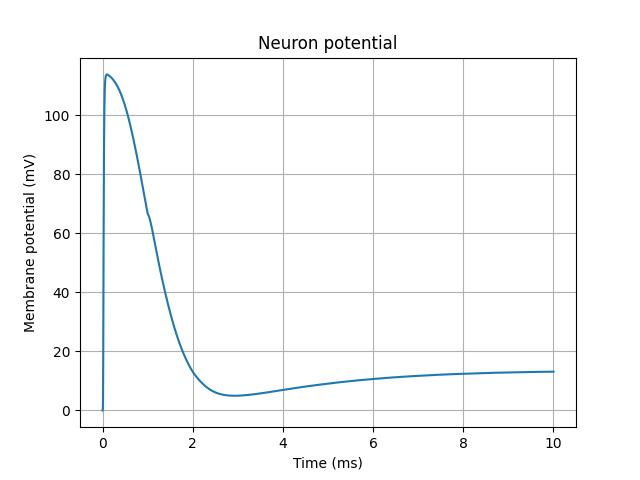
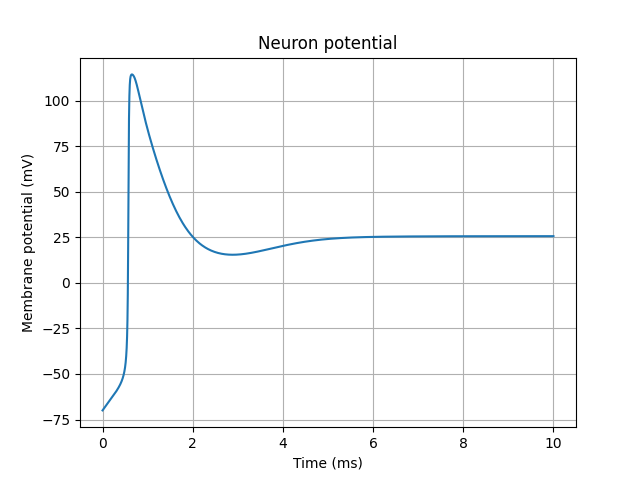
comments,optimisation

diff --git a/Full_Model.py b/Full_Model.py
@@ -6,15 +6,18 @@ from Markov_Model import *
 from HH_model import *
 import time
 
+# Na = Sodium
+# K = Potassium
+
 start_time = time.time()    # Monitor performance
-tmax = 35                   # Duration of the simulation
+tmax = 10                   # Duration of the simulation
 i_na_trace = []             # Trace for graph purposes
 i_k_trace = []
 i_leak_trace = []
 
 class Somatic_Voltage:
 
-    def __init__(self,g_na,g_k,g_l,c_m,v_init,vna,vk,vl):
+    def __init__(self,g_na,g_k,g_l,c_m,v_init,vna,vk,vl,i_inj):
 
         self.g_na     = g_na               
         self.g_k      = g_k                      
@@ -23,9 +26,10 @@ class Somatic_Voltage:
         self.v_init   = v_init
         self.vna      = vna                        
         self.vk       = vk                        
-        self.vl       = vl   
+        self.vl       = vl
+        self.i_inj    = i_inj
         
-    def derivative(self,t,v,inj,o,n):
+    def derivative(self,v,o,n):
 
         GNa = self.g_na * o    
         GK = self.g_k * n**4.0
@@ -39,19 +43,19 @@ class Somatic_Voltage:
         i_k_trace.append(i_k)
         i_leak_trace.append(i_l)
 
-        deriv = (inj - i_na - i_k - i_l) / self.c_m                          # dV/dt
+        deriv = (self.i_inj - i_na - i_k - i_l) / self.c_m                          # dV/dt
 
         return deriv
 
 
 class All_Derivatives:
 
-    def __init__(self,somatic_voltage,markov_states):
+    def __init__(self,somatic_voltage,mstates):
 
         self.hh = HodgkinHuxley() 
         self.somatic_voltage = somatic_voltage
-        self.markov = markov_states
-        
+        self.markov = mstates
+
     def __call__(self,t,y): # t and y are called by the integrator
 
         v_soma   = y[0]
@@ -59,35 +63,27 @@ class All_Derivatives:
         markov_y = y[2:15]
         markov_o = y[13]
 
-        dv = self.somatic_voltage.derivative(t,v_soma,self.hh.i_inj,markov_o,n)         # Call dV/dt and pass the parameters
+        dv = self.somatic_voltage.derivative(v_soma,markov_o,n)         # Call dV/dt and pass the parameters
         
         dn = (self.hh.alpha_n(v_soma) * (1 - n)) - (self.hh.beta_n(v_soma) * n)         # dn/dt
 
         dm = self.markov.derivatives(markov_y,self.markov.alpha(v_soma),self.markov.beta(v_soma),self.markov.ksi(v_soma))
 
-        return np.append([dv,dn],dm)
+        all_derivatives = np.append([dv,dn],dm)
+        return all_derivatives
 
 def normalize(y):
-
-    total=0
-    for i in range(2,15):
-        total+=y[i]
-
-    for i in range(2,15):
-        y[i]/=total
-
-    # norm = y[2:15]/np.sum(y[2:15])      # normalise only the markov results from y[2] to y[15] but return the whole y
-    # y[2:15] = norm
+    norm = y[2:15]/np.sum(y[2:15])      # normalise only the markov results from y[2] to y[15] but return the whole y
+    y[2:15] = norm
     return y
-
 
 mstates = Markov(γ=150., δ=40., ε=1.75, d=0.005, u=0.5, n=0.75, f=0.005, a=3.3267)  # call markovian scheme to get the markov derivatives
 hh = HodgkinHuxley() 
 
-somatic_voltage=Somatic_Voltage(g_na=120., g_k=36., g_l=0.3, c_m=1., v_init=0., vna=115., vk=-12., vl=10.613)
-# somatic_voltage=Somatic_Voltage(105.,15.,2.,1.,-70.,45.,-88.,-88)             # Parameter values from Parameters2.py
-# somatic_voltage=Somatic_Voltage(47.2,200.,2.,1.,10.,45.,-88.,-88.)             # Parameter values from research paper
-# somatic_voltage=Somatic_Voltage(36.,120.,0.3,1.,0.,-115.,12.,-10.613)         # Parameter values from 2013 Action potential modelling
+somatic_voltage=Somatic_Voltage(g_na=120., g_k=36., g_l=0.3, c_m=1., v_init=-70., vna=115., vk=-12., vl=10.613, i_inj=10.)
+# somatic_voltage=Somatic_Voltage(105.,15.,2.,1.,-70.,45.,-88.,-88,10.)              # Parameter values from Parameters2.py
+# somatic_voltage=Somatic_Voltage(47.2,200.,2.,1.,10.,45.,-88.,-88.,10.)             # Parameter values from research paper
+# somatic_voltage=Somatic_Voltage(36.,120.,0.3,1.,0.,-115.,12.,-10.613,10.)          # Parameter values from 2013 Action potential modelling
 
 v_initial = somatic_voltage.v_init
 
@@ -95,25 +91,41 @@ f = All_Derivatives(somatic_voltage,mstates)  # All derivatives in one function
 
 # Initialisation
 y = np.array([v_initial,hh.n_inf(v_initial),1,0,0,0,0,0,0,0,0,0,0,0,0],dtype='float64')
-bigv = np.array([])
-bigt = np.array([])
+bigv=bigt=bigo=bigb=bigi6=bigc5= np.array([])
+
 i=0
 status = 0
-
+step = 0.025 
 while i< tmax and status==0 :
 
-    result = solve_ivp(f, t_span=(i,i+1), y0=y, t_eval=(np.linspace(i, i+1, 1000)), method='BDF')   # t_span stops at tmax with step 1
+    result = solve_ivp(f, t_span=(i,i+step), y0=y, t_eval=(np.linspace(i, i+step, 100)), method='BDF') 
     y_norm = result.y[:,-1]
-    y = normalize(y_norm)                                   # Normalise only the markov derivatives at every step i
+    y = normalize(y_norm)                                   # Normalise only the markov derivatives at every step
 
-    # print(np.shape(result.t))
+    # print(np.shape(result.y))                               # (15,len(t_eval)) 15 derivatives and the length of t_eval if one exists
 
-    bigv = np.concatenate((bigv,result.y[0,:]))             # Concatenate all the voltage values at specific times
-    bigt = np.concatenate((bigt,result.t))             
+    bigv = np.concatenate((bigv,result.y[0]))               # result.y[0] = result.y[0,:]
+    bigt = np.concatenate((bigt,result.t))   
 
-    status = result.status                                  # -1: Integration step failed.
-    i+=1                                                    #  0: The solver successfully reached the end of t_span.
+    bigc5 = np.concatenate((bigc5,result.y[6]))    
+    bigi6 = np.concatenate((bigi6,result.y[12]))
+    bigo = np.concatenate((bigo,result.y[13]))
+    bigb = np.concatenate((bigb,result.y[14]))
 
+
+    status = result.status                                     # -1: Integration step failed.
+    i+=step                                                    #  0: The solver successfully reached the end of t_span.
+
+# ax = plt.subplot()
+# ax.plot(bigt, bigo,c='r',label='o')
+# ax.plot(bigt, bigb,c='b',label='b')
+# ax.plot(bigt, bigi6,c='orange',label='i6')
+# ax.plot(bigt, bigc5,c='g',label='c5')
+# ax.set_xlabel('Time (ms)')
+# ax.set_ylabel('Fraction')
+# plt.legend()
+# plt.grid()
+# plt.show()
 
 ax = plt.subplot()
 ax.plot(bigt, bigv)
@@ -124,7 +136,7 @@ plt.grid()
 plt.savefig('Figures/Neuron Potential Full model')
 plt.show()
 
-# hh.graphs(bigv,bigt,i_na_trace,i_k_trace,i_leak_trace)
+# hh.graphs(bigv,bigt,i_na_trace,i_k_trace,i_leak_trace,bigo,bigb,bigi6,bigc5)
 # if __name__ == '__main__':
 #     runner = FullModel()
 #     runner.Main()

diff --git a/HH_model.py b/HH_model.py
@@ -39,16 +39,17 @@ class HodgkinHuxley:      # Hodgkin - Huxley model
         self.t  = np.linspace(0, self.tmax, 100)
 
     def alpha_n(self,v):
-        nom = 0.01* (10 - v)
-        denom = (np.exp((10 - v) / 10) - 1)
+
+        nom = 0.01* (10. - v)
+        denom = (np.exp((10. - v) / 10.) - 1.)
         if nom == 0 and denom == 0 :
             return 0.1
-        # return (0.22 * np.exp( (v-30)/ 26.5))      # Research paper equation
-        return (nom / denom)                         # Wiki equation(original HH)
+        return (0.22 * np.exp( (v-30)/ 26.5))      # Research paper equation
+        # return (nom / denom)                         # Wiki equation(original HH)
 
     def beta_n(self,v):
-        # return (0.22 * np.exp(- (v-30)/ 26.5))     # Research paper equation
-        return (0.125 * np.exp(- v/ 80.))            # Wiki equation(original HH)
+        return (0.22 * np.exp(- (v-30)/ 26.5))     # Research paper equation
+        # return (0.125 * np.exp(- v/ 80.))            # Wiki equation(original HH)
 
     def alpha_m(self,v):
         nom = 0.1  * (25. - v)
@@ -63,6 +64,7 @@ class HodgkinHuxley:      # Hodgkin - Huxley model
     def alpha_h(self,v):
         return (0.07 * np.exp(- v/ 20.))
 
+    # h is replaced by the markovian scheme
     def beta_h(self,v):
         return (1. / (np.exp((30. -v) / 10.) + 1.))
 
@@ -79,7 +81,7 @@ class HodgkinHuxley:      # Hodgkin - Huxley model
     def frequency(self,y):
         firing_rate = []
         self.max_I = []
-        self.var_inj = np.linspace(0, self.i_inj, 100)
+        self.var_inj = [8,23,25,52,115,215]          # np.linspace(0, self.i_inj, 100)
         spikes = 0               
 
         for i in range(len(self.var_inj)):
@@ -87,7 +89,7 @@ class HodgkinHuxley:      # Hodgkin - Huxley model
             result = solve_ivp(self.derivatives, t_span=(0,self.tmax), y0=y, t_eval=self.t, args=(self.var_inj[i],),method='BDF') 
 
             for n in range(len(self.t)):
-                if result.y[0,n] >= self.vthresh and result.y[0,n-1] < self.vthresh:        #OPTIMISE FOR LOOPS WITH NUMPY
+                if result.y[0,n] >= self.vthresh and result.y[0,n-1] < self.vthresh:        # OPTIMISE FOR loops with NUMPY or list comprehensions
                     spikes += 1
             firing_rate.append(spikes/self.tmax)
 
@@ -98,7 +100,7 @@ class HodgkinHuxley:      # Hodgkin - Huxley model
         print(max(self.max_I))
 
         return firing_rate
-        
+   
     def derivatives(self,t,y,inj):
         der = np.zeros(4)
         v = y[0]
@@ -106,7 +108,7 @@ class HodgkinHuxley:      # Hodgkin - Huxley model
         m = y[2]
         h = y[3]
 
-        GNa = self.g_na * m**3.0 * h    #    m is replaced by the markovian scheme
+        GNa = self.g_na * m**3.0 * h    #    m and h is replaced by the markovian scheme
         GK = self.g_k * n**4.0
         GL = self.g_l
 
@@ -122,15 +124,29 @@ class HodgkinHuxley:      # Hodgkin - Huxley model
 
         return der
 
-    def graphs(self,v,t,ina,ik,il):
+    def graphs(self,v,t,ina,ik,il,bigo,bigb,bigi6,bigc5):
+        # ADD injection current graph(either constant or the F-I curve)
+        # ADD Channel conductances
         ax = plt.subplot()
         ax.plot(t, ina, 'b', label='Potassium Current')
         ax.plot(t, ik,  'g', label='Sodium Current')
         ax.plot(t, il,  'r', label='Leak Current')
-        ax.set_title('Current contribution')
+        ax.set_title('Channel currents')
         plt.grid()
-        plt.savefig('Figures/Trace')
+        plt.savefig('Figures/Channel currents')
         plt.show()
+
+        # ax = plt.subplot()
+        # ax.plot(bigt, bigo,c='r',label='o')
+        # ax.plot(bigt, bigb,c='b',label='b')
+        # ax.plot(bigt, bigi6,c='orange',label='i6')
+        # ax.plot(bigt, bigc5,c='g',label='c5')
+        # ax.set_xlabel('Time (ms)')
+        # ax.set_ylabel('Fraction')
+        # plt.legend()
+        # plt.grid()
+        # plt.savefig('Figures/Markovian fraction')
+        # plt.show()
 
     # def lala(self):
     #     v = self.v
@@ -164,7 +180,7 @@ class HodgkinHuxley:      # Hodgkin - Huxley model
         # ax.plot(t, h, 'r', label='Sodium Channel (Closing): h')
         # ax.set_ylabel('Gating value')
         # ax.set_xlabel('Time (ms)')
-        # ax.set_title('Potassium and Sodium channels')
+        # ax.set_title('Potassium and Sodium channels using the Hodgking-Huxley model')
         # plt.legend()
         # plt.savefig('Figures/Ion channel gating variables with respect to time')
         # plt.show()

diff --git a/Markov_Model.py b/Markov_Model.py
@@ -1,4 +1,3 @@
-from mimetypes import init
 from Units import *
 import numpy as np
 # from scipy.integrate import solve_ivp
